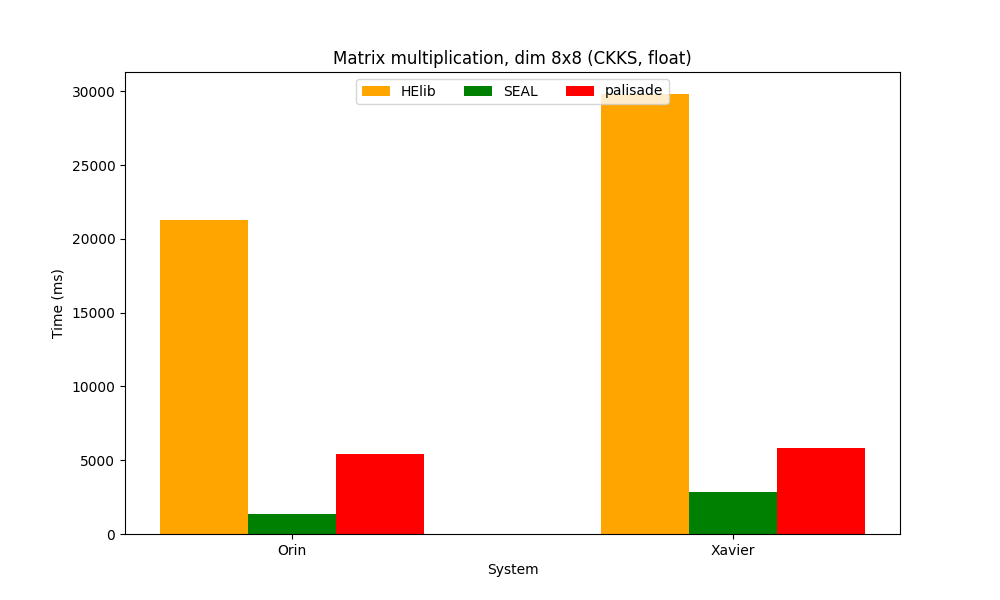
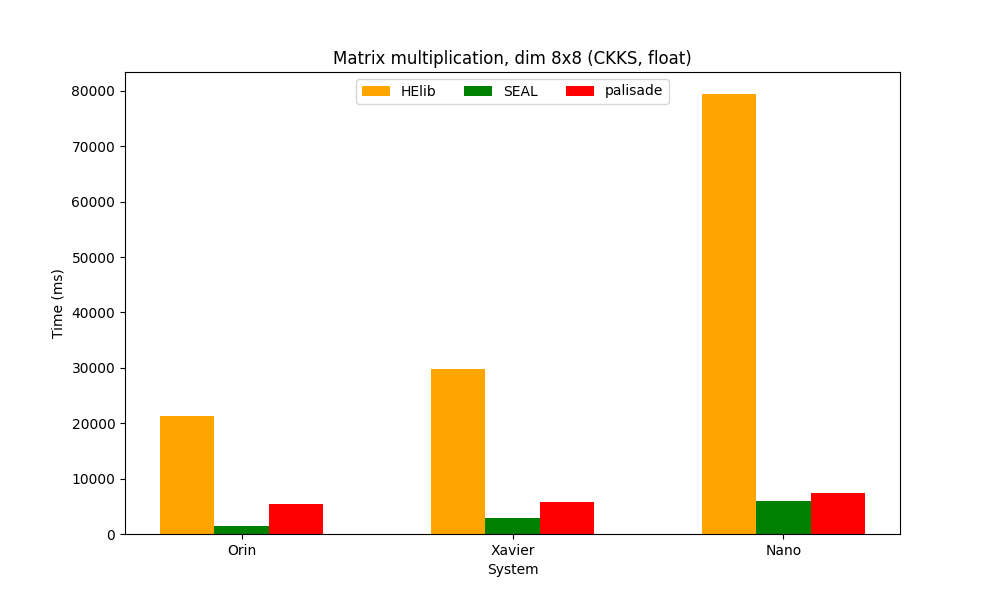
Update results

diff --git a/CHARACTERIZATION/CLIENT-LIKE_RESULTS/generate_bar_plots_float.py b/CHARACTERIZATION/CLIENT-LIKE_RESULTS/generate_bar_plots_float.py
@@ -68,7 +68,7 @@ for dimension in dims:
         plt.close()
 
     # Common X tick labels for both plots
-    x_ticks = ['Orin', 'Xavier']
+    x_ticks = ['Orin', 'Xavier', 'Nano']
     
     # Plotting the Orin-* and Xavier-* float values and saving to PDF
     create_bar_plot(float_data, 'Matrix multiplication, dim ' + str(dimension) + 'x' + str(dimension) + ' (CKKS, float)', str(dimension) + 'x' + str(dimension) + '_float_times_barplot.png', libraries_filtered_float.tolist())

diff --git a/CHARACTERIZATION/CLIENT-LIKE_RESULTS/generate_bar_plots_int.py b/CHARACTERIZATION/CLIENT-LIKE_RESULTS/generate_bar_plots_int.py
@@ -24,7 +24,7 @@ for dimension in dims:
     int_data = df[int_columns]
 
     # Common X tick labels for both plots
-    x_ticks = ['Orin', 'Xavier']
+    x_ticks = ['Orin', 'Xavier', 'Nano']
     x = np.arange(len(x_ticks))  # the label locations
 
     # Function to create bar plots
